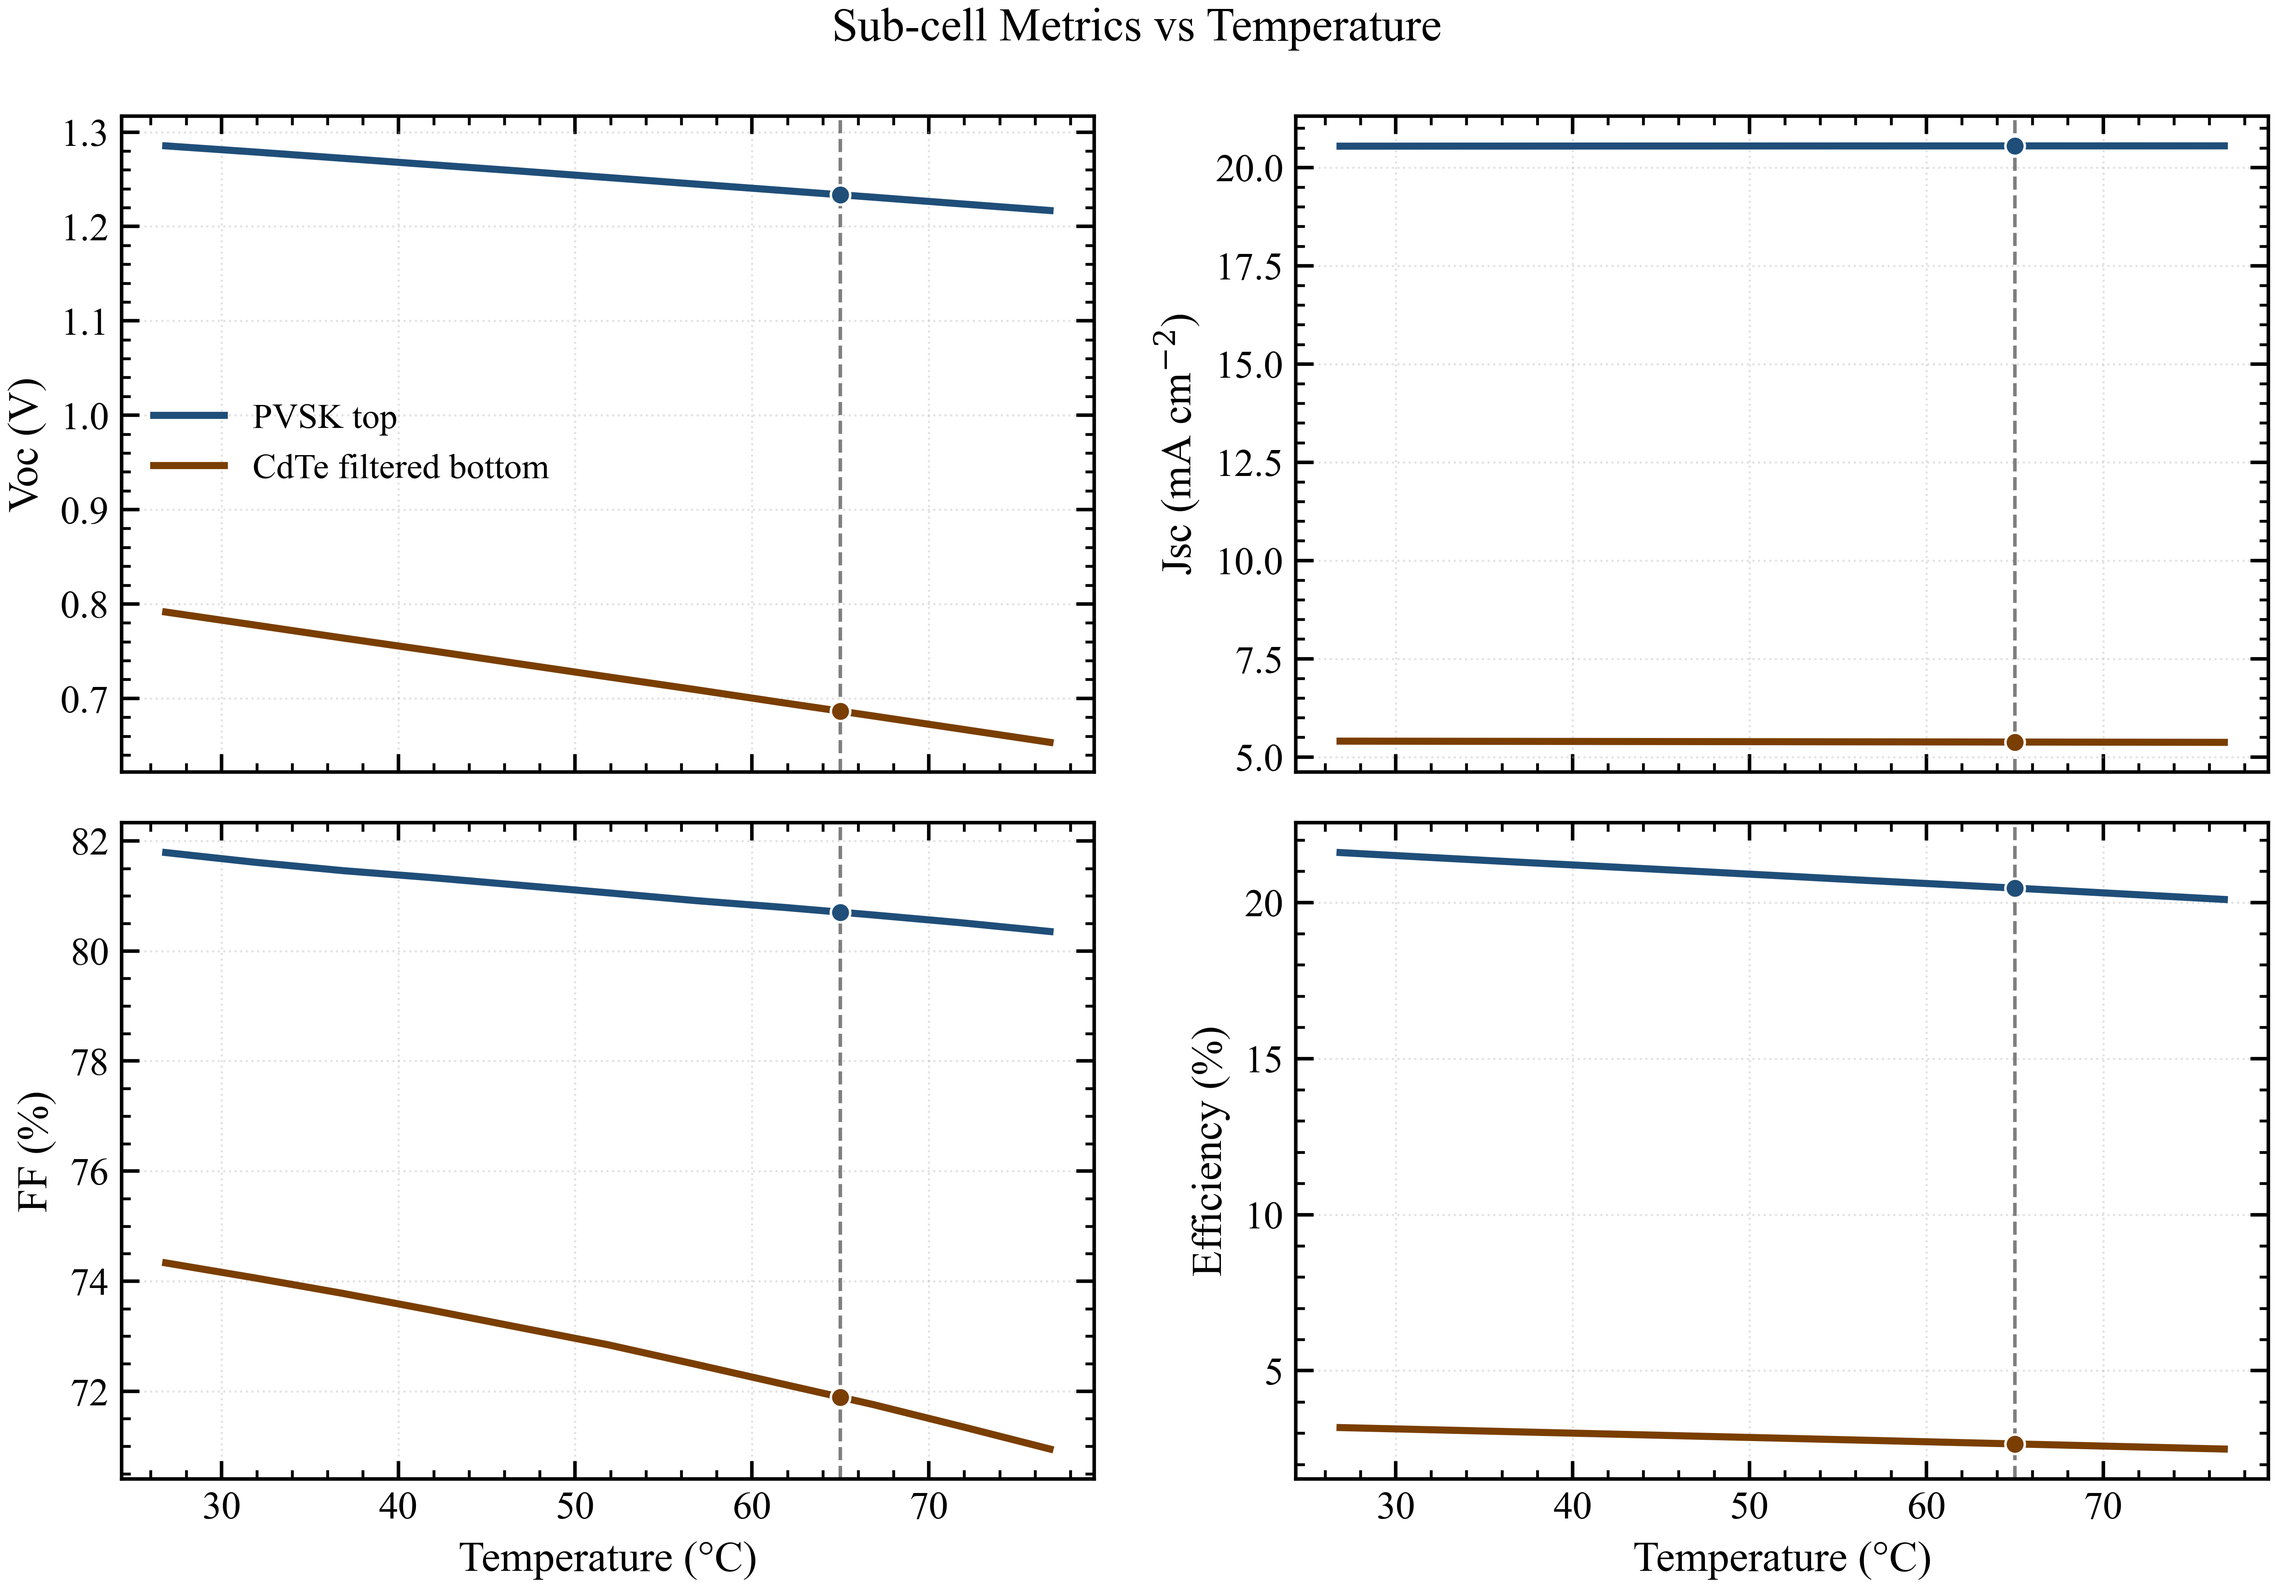
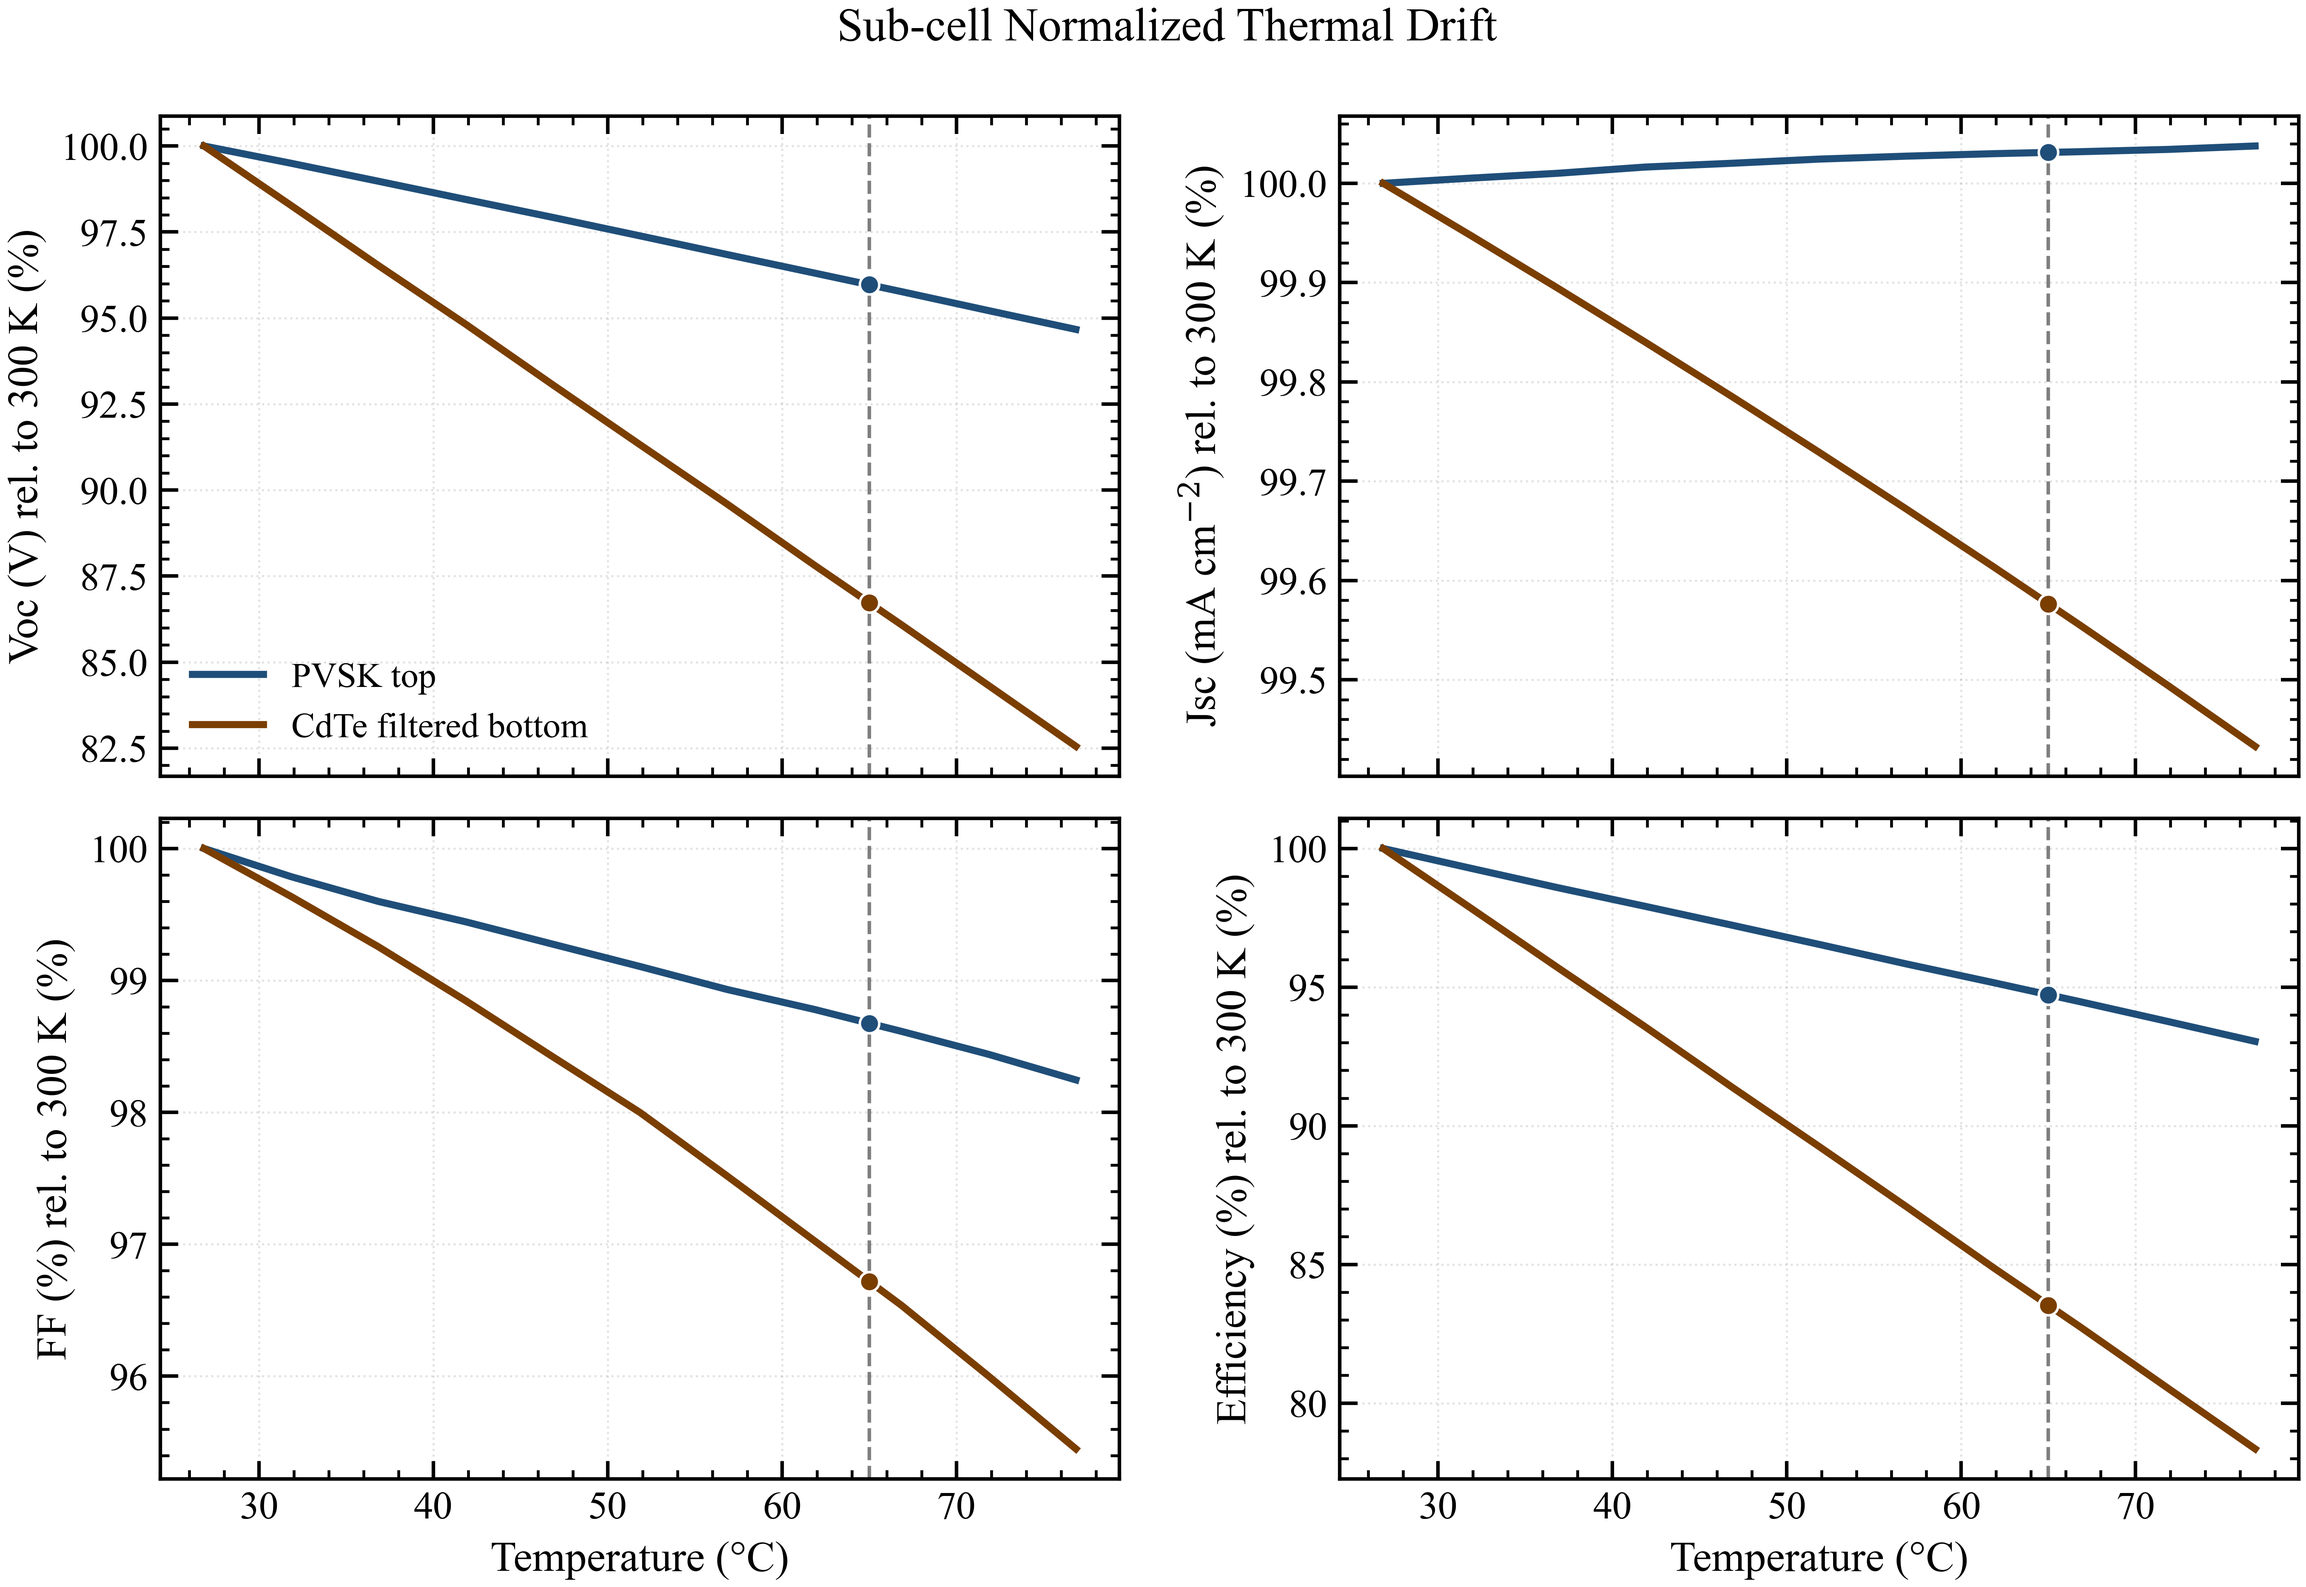
Updated thermal_tandem_analysis.py so the sub-cell plots are no longer dominated by the PVSK/CdTe magnitude gap. I reran the workflow and replaced the generic sub-cell comparison with a more interpretable set of figures.
The plotting choice I made is:

Separate absolute plots for each cell, so temperature trends are readable on their own scales: pvsk_metrics_vs_temperature.png and cdte_filtered_metrics_vs_temperature.png
A normalized comparison plot, where each metric is shown relative to its 300 K value, so you can compare thermal sensitivity directly without empty space: subcell_metrics_vs_temperature.png
A separation plot, showing top - bottom for each metric, so the cross-cell gap is explicit without overlaying incompatible scales: subcell_metric_separation_vs_temperature.png
I kept the dedicated current-mismatch plot because it is still the right place for Jtop - Jbottom and Jtop / Jbottom: mismatch_drift_vs_temperature.png. This combination is more useful scientifically: absolute behavior is readable per cell, thermal sensitivity is comparable in normalized form, and the tandem-relevant mismatch is still shown explicitly.

diff --git a/scripts/thermal_tandem_analysis.py b/scripts/thermal_tandem_analysis.py
@@ -440,6 +440,43 @@ def add_reference_vertical(ax: plt.Axes, target_c: float) -> None:
     ax.axvline(target_c, color="black", lw=1.0, ls="--", alpha=0.5)
 
 
+def plot_single_cell_metrics(
+    out_path: Path,
+    rows: Sequence[Dict[str, float | str]],
+    title: str,
+    line_color: str,
+    label: str,
+    target_temp_c: float,
+) -> None:
+    temperatures_k = np.asarray([float(row["temperature_k"]) for row in rows], dtype=float)
+    x_celsius = temperature_to_celsius(temperatures_k)
+
+    fig, axes = plt.subplots(2, 2, figsize=(9.2, 6.4), sharex=True)
+    for ax, metric_name in zip(axes.flat, METRIC_META.keys()):
+        values = np.asarray([float(row[metric_name]) for row in rows], dtype=float)
+        ax.plot(x_celsius, values, color=line_color, lw=2.1, label=label)
+        ax.scatter(
+            [target_temp_c],
+            [np.interp(target_temp_c, x_celsius, values)],
+            s=34,
+            color=line_color,
+            edgecolor="white",
+            linewidth=0.7,
+            zorder=3,
+        )
+        add_reference_vertical(ax, target_temp_c)
+        ax.set_ylabel(METRIC_META[metric_name]["label"])
+        style_axis(ax)
+
+    axes[1, 0].set_xlabel("Temperature (°C)")
+    axes[1, 1].set_xlabel("Temperature (°C)")
+    axes[0, 0].legend(loc="best")
+    fig.suptitle(title, y=0.99)
+    fig.tight_layout()
+    fig.savefig(out_path, dpi=600)
+    plt.close(fig)
+
+
 def plot_subcell_metrics(
     out_path: Path,
     top_rows: Sequence[Dict[str, float | str]],
@@ -448,33 +485,88 @@ def plot_subcell_metrics(
 ) -> None:
     temperatures_k = np.asarray([float(row["temperature_k"]) for row in top_rows], dtype=float)
     x_celsius = temperature_to_celsius(temperatures_k)
-    series_map = {
-        "PVSK top": {"rows": top_rows, "color": "#1f4e79", "ls": "-"},
-        "CdTe filtered bottom": {"rows": bottom_rows, "color": "#7a3e00", "ls": "-"},
-    }
+    baseline_k = float(np.min(temperatures_k))
 
     fig, axes = plt.subplots(2, 2, figsize=(9.2, 6.4), sharex=True)
     for ax, metric_name in zip(axes.flat, METRIC_META.keys()):
-        for label, meta in series_map.items():
-            values = np.asarray([float(row[metric_name]) for row in meta["rows"]], dtype=float)
-            ax.plot(x_celsius, values, color=meta["color"], lw=2.0, ls=meta["ls"], label=label)
-            ax.scatter(
-                [target_temp_c],
-                [np.interp(target_temp_c, x_celsius, values)],
-                s=30,
-                color=meta["color"],
-                edgecolor="white",
-                linewidth=0.7,
-                zorder=3,
-            )
+        top_values = np.asarray([float(row[metric_name]) for row in top_rows], dtype=float)
+        bottom_values = np.asarray([float(row[metric_name]) for row in bottom_rows], dtype=float)
+        top_baseline = interpolate_series(temperatures_k, top_values, baseline_k)
+        bottom_baseline = interpolate_series(temperatures_k, bottom_values, baseline_k)
+        top_rel = 100.0 * top_values / top_baseline
+        bottom_rel = 100.0 * bottom_values / bottom_baseline
+
+        ax.plot(x_celsius, top_rel, color="#1f4e79", lw=2.0, label="PVSK top")
+        ax.plot(x_celsius, bottom_rel, color="#7a3e00", lw=2.0, label="CdTe filtered bottom")
+        ax.scatter(
+            [target_temp_c],
+            [np.interp(target_temp_c, x_celsius, top_rel)],
+            s=30,
+            color="#1f4e79",
+            edgecolor="white",
+            linewidth=0.7,
+            zorder=3,
+        )
+        ax.scatter(
+            [target_temp_c],
+            [np.interp(target_temp_c, x_celsius, bottom_rel)],
+            s=30,
+            color="#7a3e00",
+            edgecolor="white",
+            linewidth=0.7,
+            zorder=3,
+        )
         add_reference_vertical(ax, target_temp_c)
-        ax.set_ylabel(METRIC_META[metric_name]["label"])
+        ax.set_ylabel(f"{METRIC_META[metric_name]['label']} rel. to 300 K (%)")
         style_axis(ax)
 
     axes[1, 0].set_xlabel("Temperature (°C)")
     axes[1, 1].set_xlabel("Temperature (°C)")
     axes[0, 0].legend(loc="best")
-    fig.suptitle("Sub-cell Metrics vs Temperature", y=0.99)
+    fig.suptitle("Sub-cell Normalized Thermal Drift", y=0.99)
+    fig.tight_layout()
+    fig.savefig(out_path, dpi=600)
+    plt.close(fig)
+
+
+def plot_subcell_metric_separation(
+    out_path: Path,
+    top_rows: Sequence[Dict[str, float | str]],
+    bottom_rows: Sequence[Dict[str, float | str]],
+    target_temp_c: float,
+) -> None:
+    temperatures_k = np.asarray([float(row["temperature_k"]) for row in top_rows], dtype=float)
+    x_celsius = temperature_to_celsius(temperatures_k)
+    separation_meta = {
+        "voc": {"label": "Voc top - bottom (V)"},
+        "jsc": {"label": "Jsc top - bottom (mA cm$^{-2}$)"},
+        "ff": {"label": "FF top - bottom (%)"},
+        "eta": {"label": "Efficiency top - bottom (%)"},
+    }
+
+    fig, axes = plt.subplots(2, 2, figsize=(9.2, 6.4), sharex=True)
+    for ax, metric_name in zip(axes.flat, separation_meta.keys()):
+        top_values = np.asarray([float(row[metric_name]) for row in top_rows], dtype=float)
+        bottom_values = np.asarray([float(row[metric_name]) for row in bottom_rows], dtype=float)
+        gap = top_values - bottom_values
+        ax.plot(x_celsius, gap, color="#0f7f54", lw=2.1, label="Top - bottom")
+        ax.scatter(
+            [target_temp_c],
+            [np.interp(target_temp_c, x_celsius, gap)],
+            s=34,
+            color="#0f7f54",
+            edgecolor="white",
+            linewidth=0.7,
+            zorder=3,
+        )
+        add_reference_vertical(ax, target_temp_c)
+        ax.set_ylabel(separation_meta[metric_name]["label"])
+        style_axis(ax)
+
+    axes[1, 0].set_xlabel("Temperature (°C)")
+    axes[1, 1].set_xlabel("Temperature (°C)")
+    axes[0, 0].legend(loc="best")
+    fig.suptitle("Sub-cell Metric Separation", y=0.99)
     fig.tight_layout()
     fig.savefig(out_path, dpi=600)
     plt.close(fig)
@@ -897,7 +989,34 @@ def main() -> None:
     save_csv(csv_dir / "mismatch_drift_summary.csv", mismatch_summary_rows, mismatch_fieldnames)
     save_csv(csv_dir / "mismatch_drift_vs_temperature.csv", drift_rows, drift_fieldnames)
 
-    plot_subcell_metrics(figures_dir / "subcell_metrics_vs_temperature.png", top_rows, bottom_rows, args.target_temp_c)
+    plot_single_cell_metrics(
+        figures_dir / "pvsk_metrics_vs_temperature.png",
+        top_rows,
+        "PVSK Top-Cell Metrics vs Temperature",
+        "#1f4e79",
+        "PVSK top",
+        args.target_temp_c,
+    )
+    plot_single_cell_metrics(
+        figures_dir / "cdte_filtered_metrics_vs_temperature.png",
+        bottom_rows,
+        "Filtered CdTe Bottom-Cell Metrics vs Temperature",
+        "#7a3e00",
+        "CdTe filtered bottom",
+        args.target_temp_c,
+    )
+    plot_subcell_metrics(
+        figures_dir / "subcell_metrics_vs_temperature.png",
+        top_rows,
+        bottom_rows,
+        args.target_temp_c,
+    )
+    plot_subcell_metric_separation(
+        figures_dir / "subcell_metric_separation_vs_temperature.png",
+        top_rows,
+        bottom_rows,
+        args.target_temp_c,
+    )
     plot_tandem_metrics(figures_dir / "tandem_metrics_vs_temperature.png", tandem_rows, args.target_temp_c)
     plot_voc_physics(figures_dir / "voc_physics_vs_temperature.png", top_rows, bottom_rows, args.target_temp_c)
     plot_mismatch_drift(
